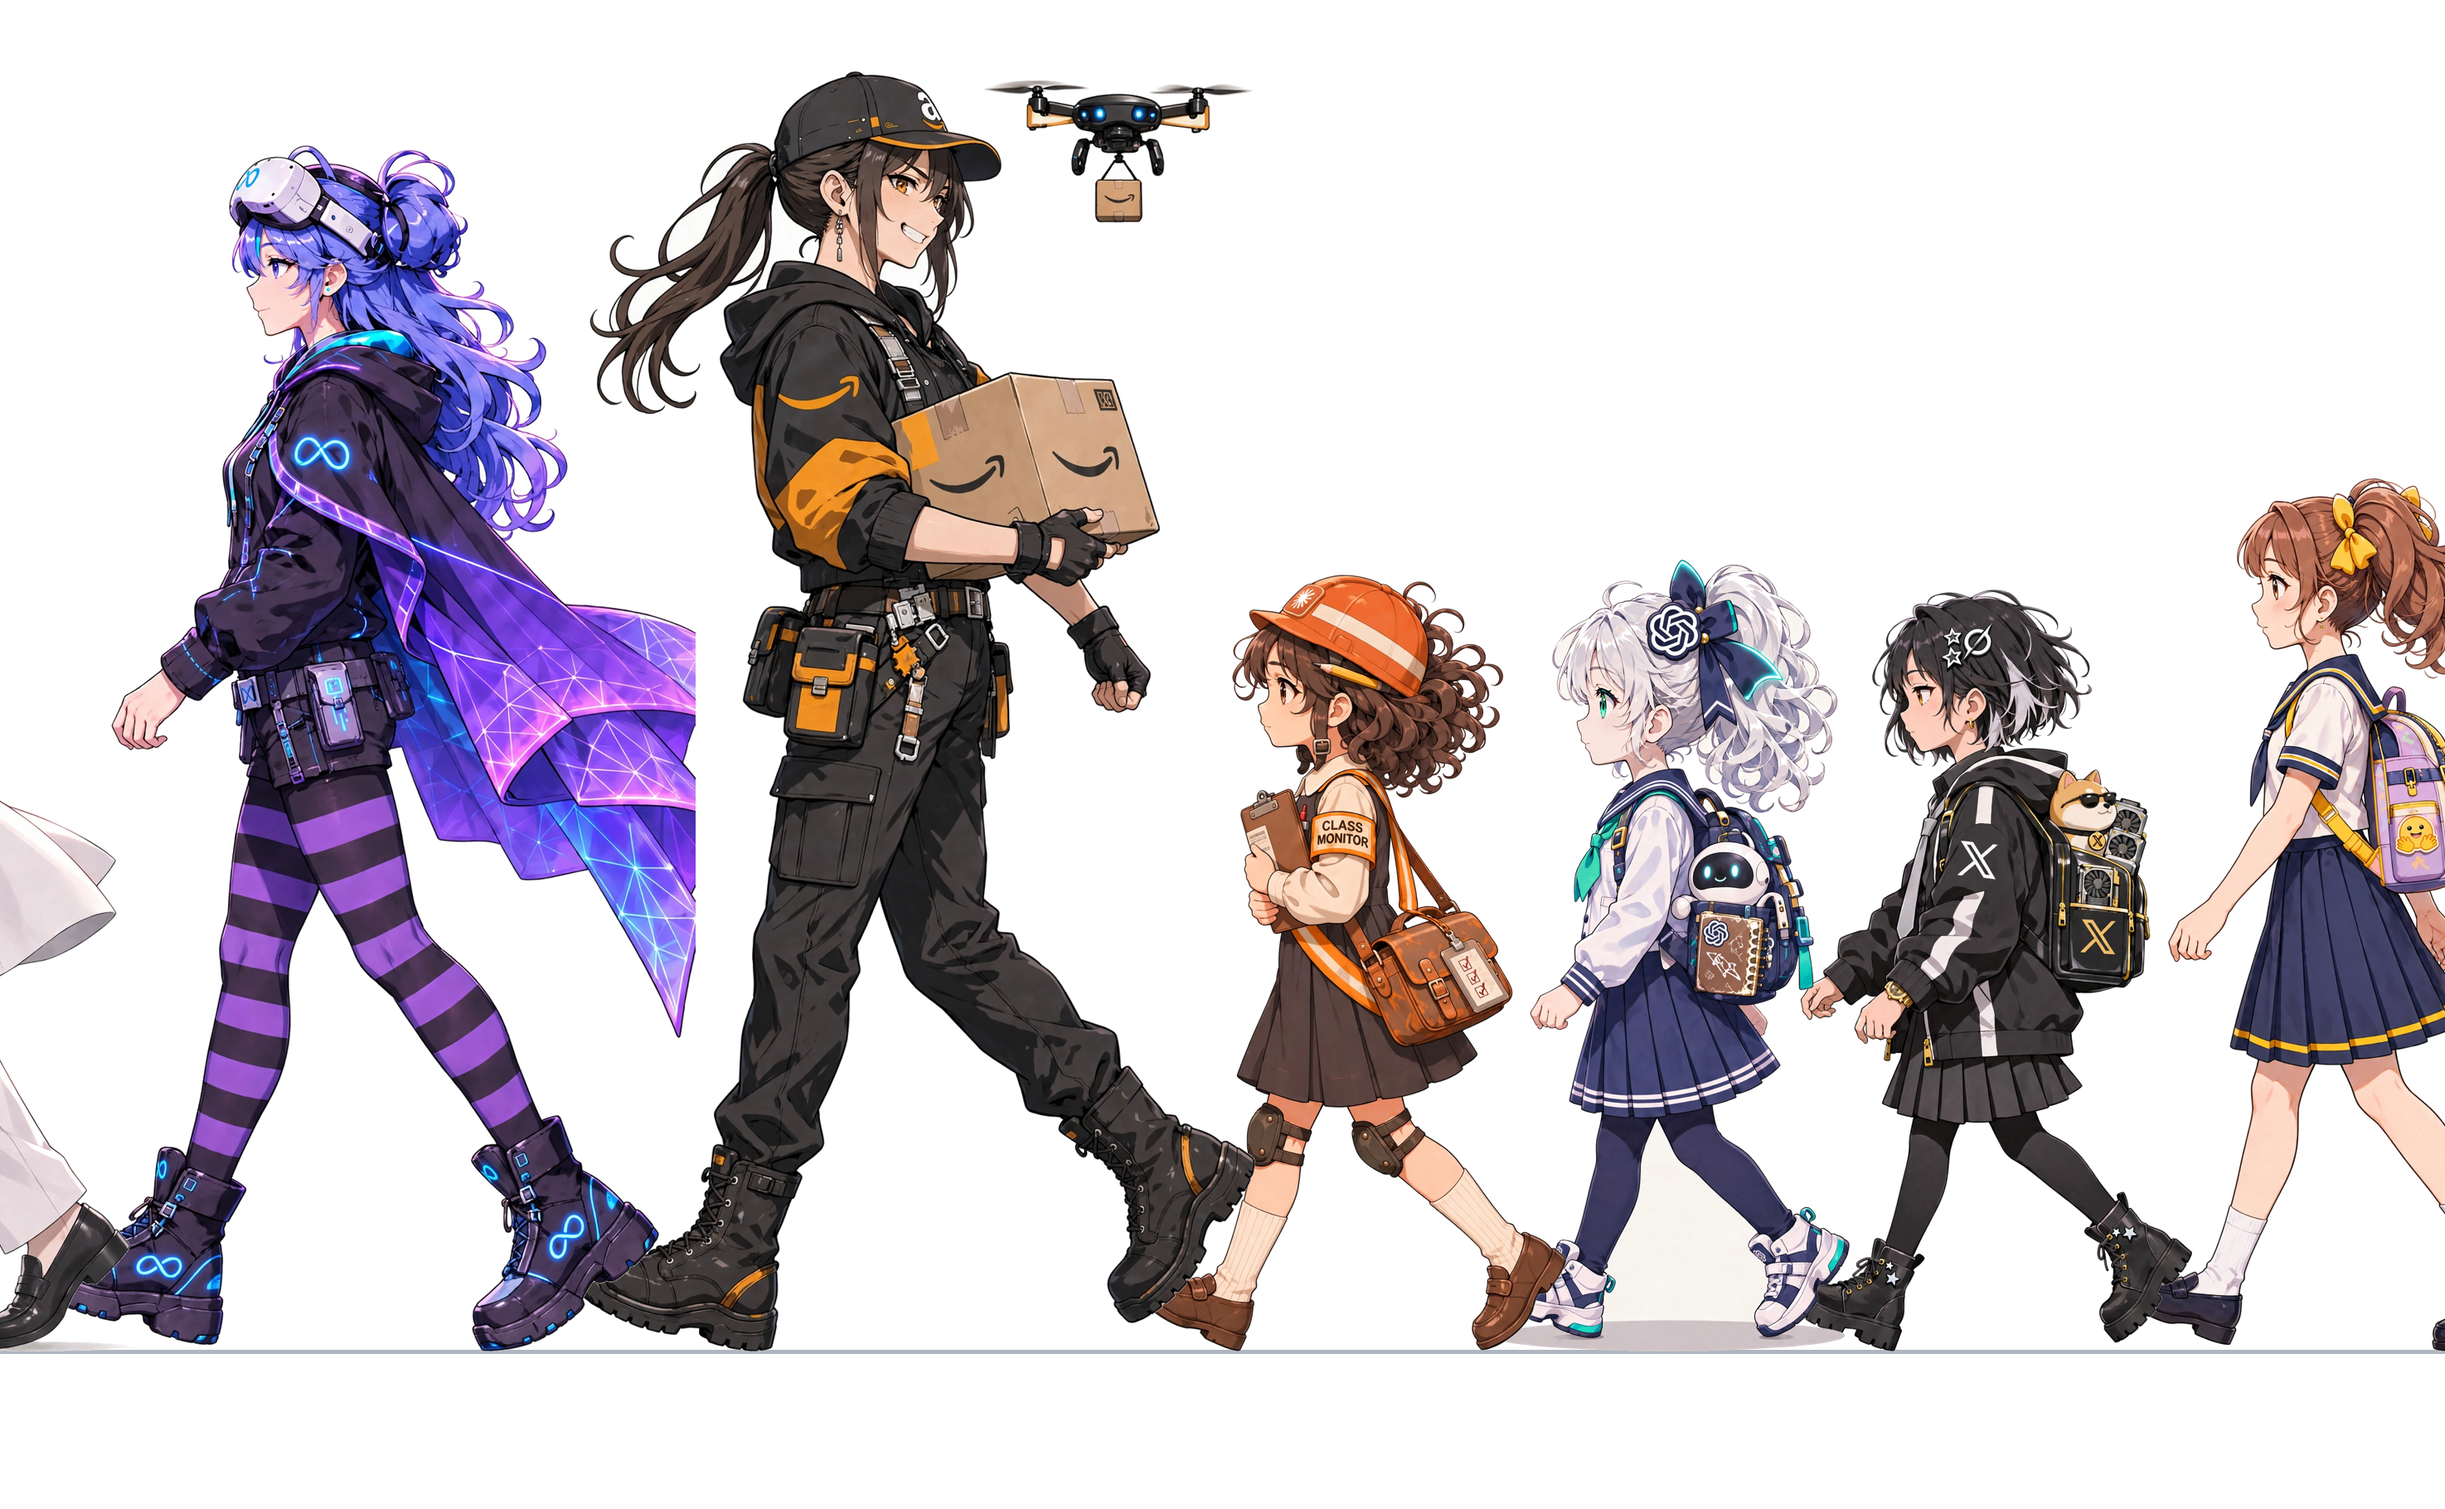
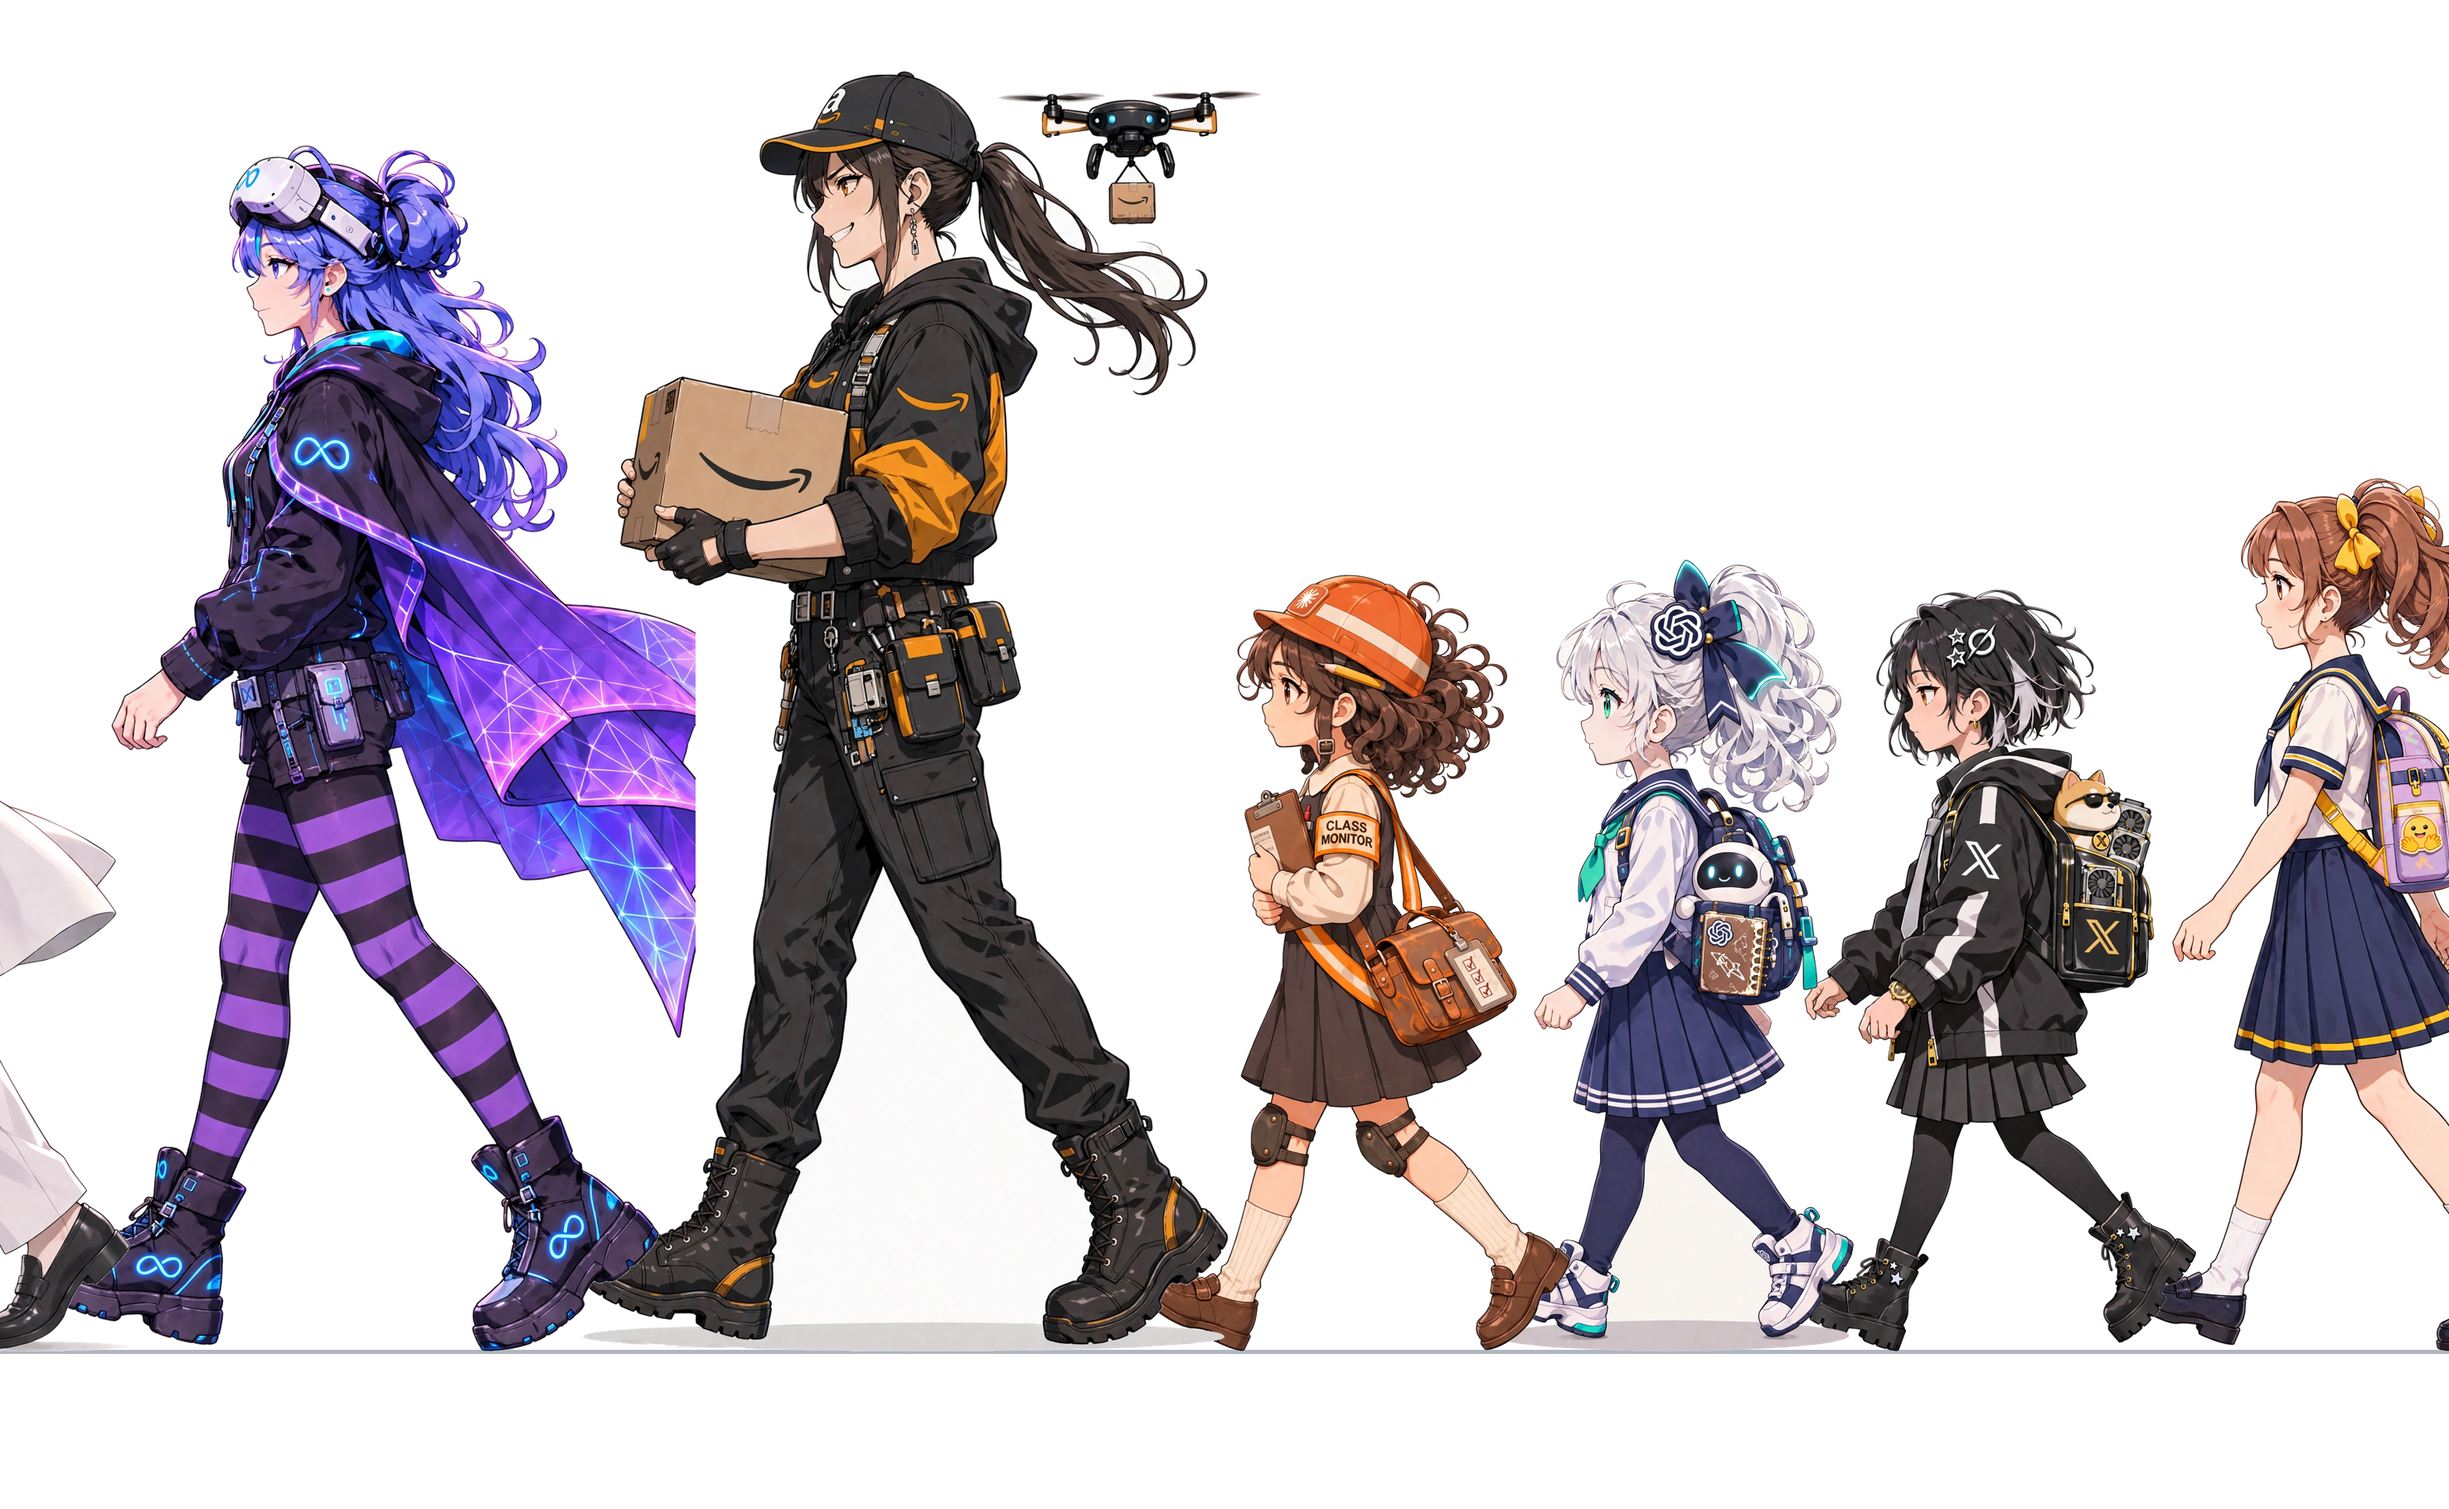
ED Walk: fix Amazon's twisted v2 walker
Review caught it: in her v2 take the upper body was twisted 180
degrees against the lower body - head, chest and parcel facing
right while hips and feet walked left (the thumbnail audit read
her stride direction and missed the twist). Regenerated with the
prompt pinning one consistent left-facing profile: face, chest,
hips and feet all left, ponytail streaming behind her to the
right, parcel carried ahead in profile, drone trailing at her
shoulder. Verified at full size and in slice 2.

diff --git a/art/ed-walk/README.md b/art/ed-walk/README.md
@@ -48,7 +48,12 @@ than a single crowd generation, so no character's traits bleed into another's.
   all 32 striding or rolling left in true profile, and every printed
   logo and text reads correctly — no mirror flips anywhere in v2.
   (Microsoft's batch attempt returned no image; a fresh attempt
-  succeeded.) The v1 notes below are kept as build history.
+  succeeded. Amazon's v2 take was then caught at review with her
+  upper body twisted 180 degrees against her legs — head and torso
+  facing right while her hips and feet walked left — and was
+  regenerated with the whole body aligned in one left-facing
+  profile; verified in slice 2.) The v1 notes below are kept as
+  build history.
 - Intel and Huawei initially produced no image with the standard walker
   prompt. A text-combination test found the fix: scrub the brand name from
   the prompt and explicitly require plain unmarked panels with no text,
